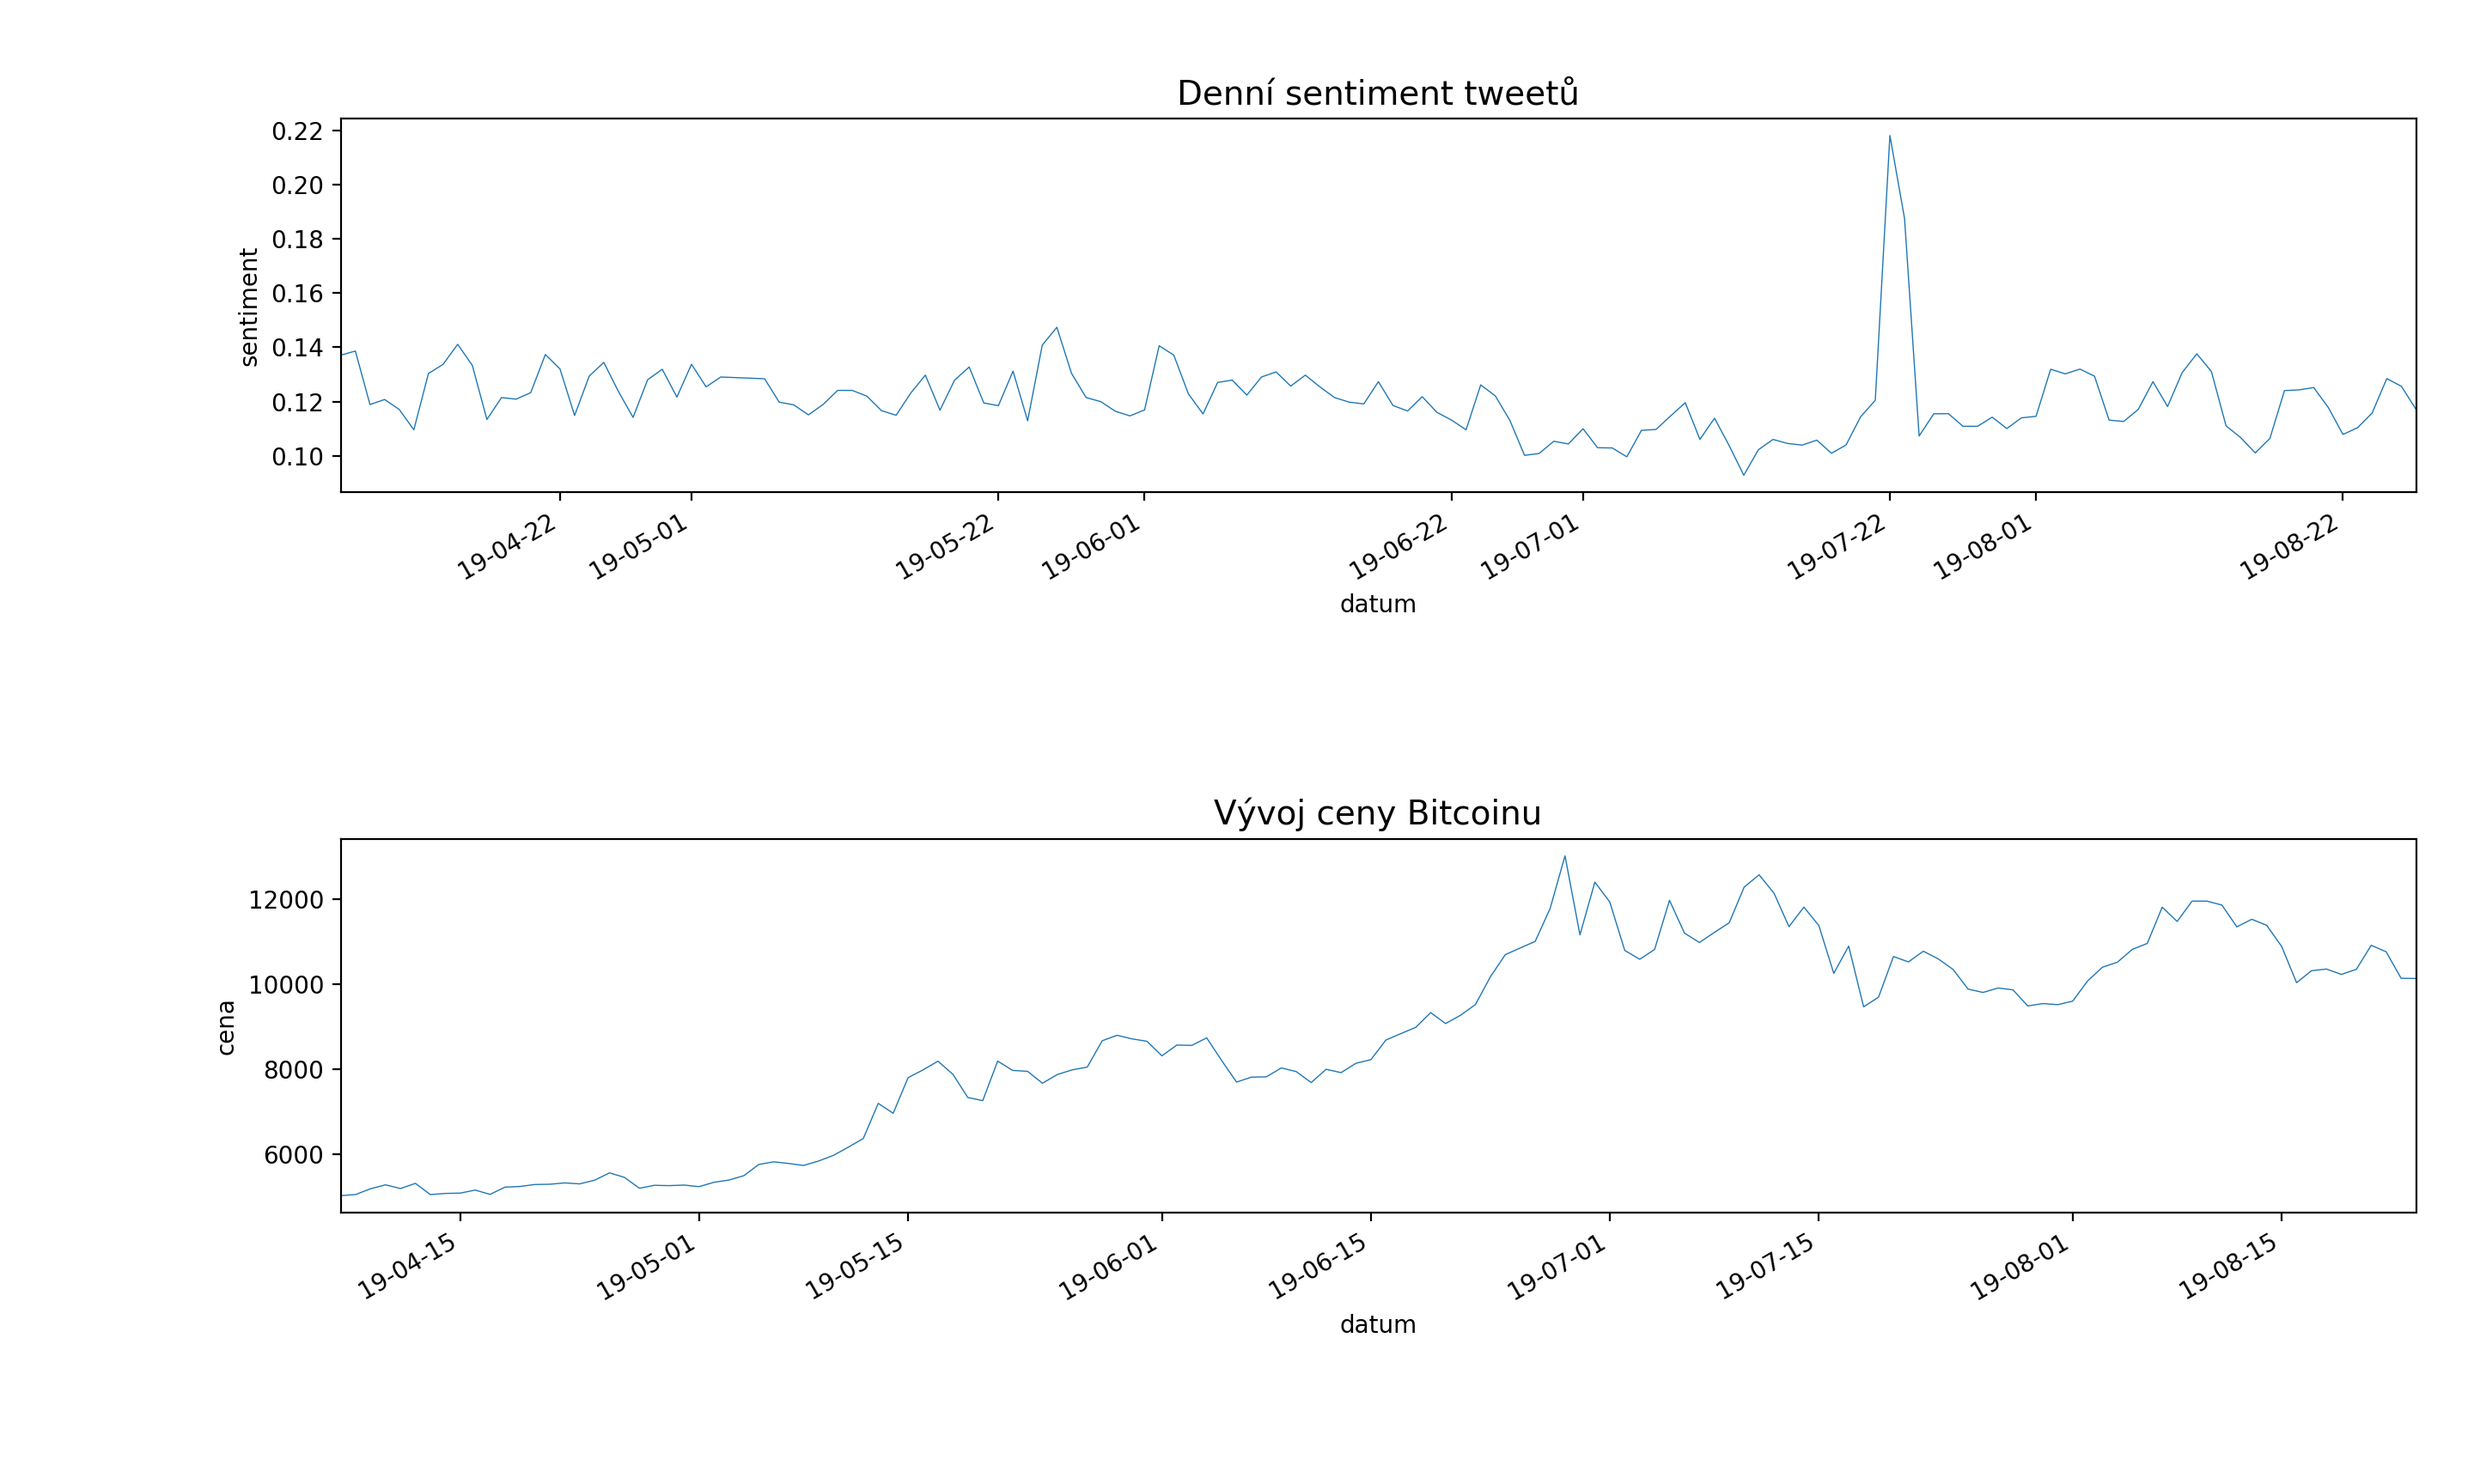
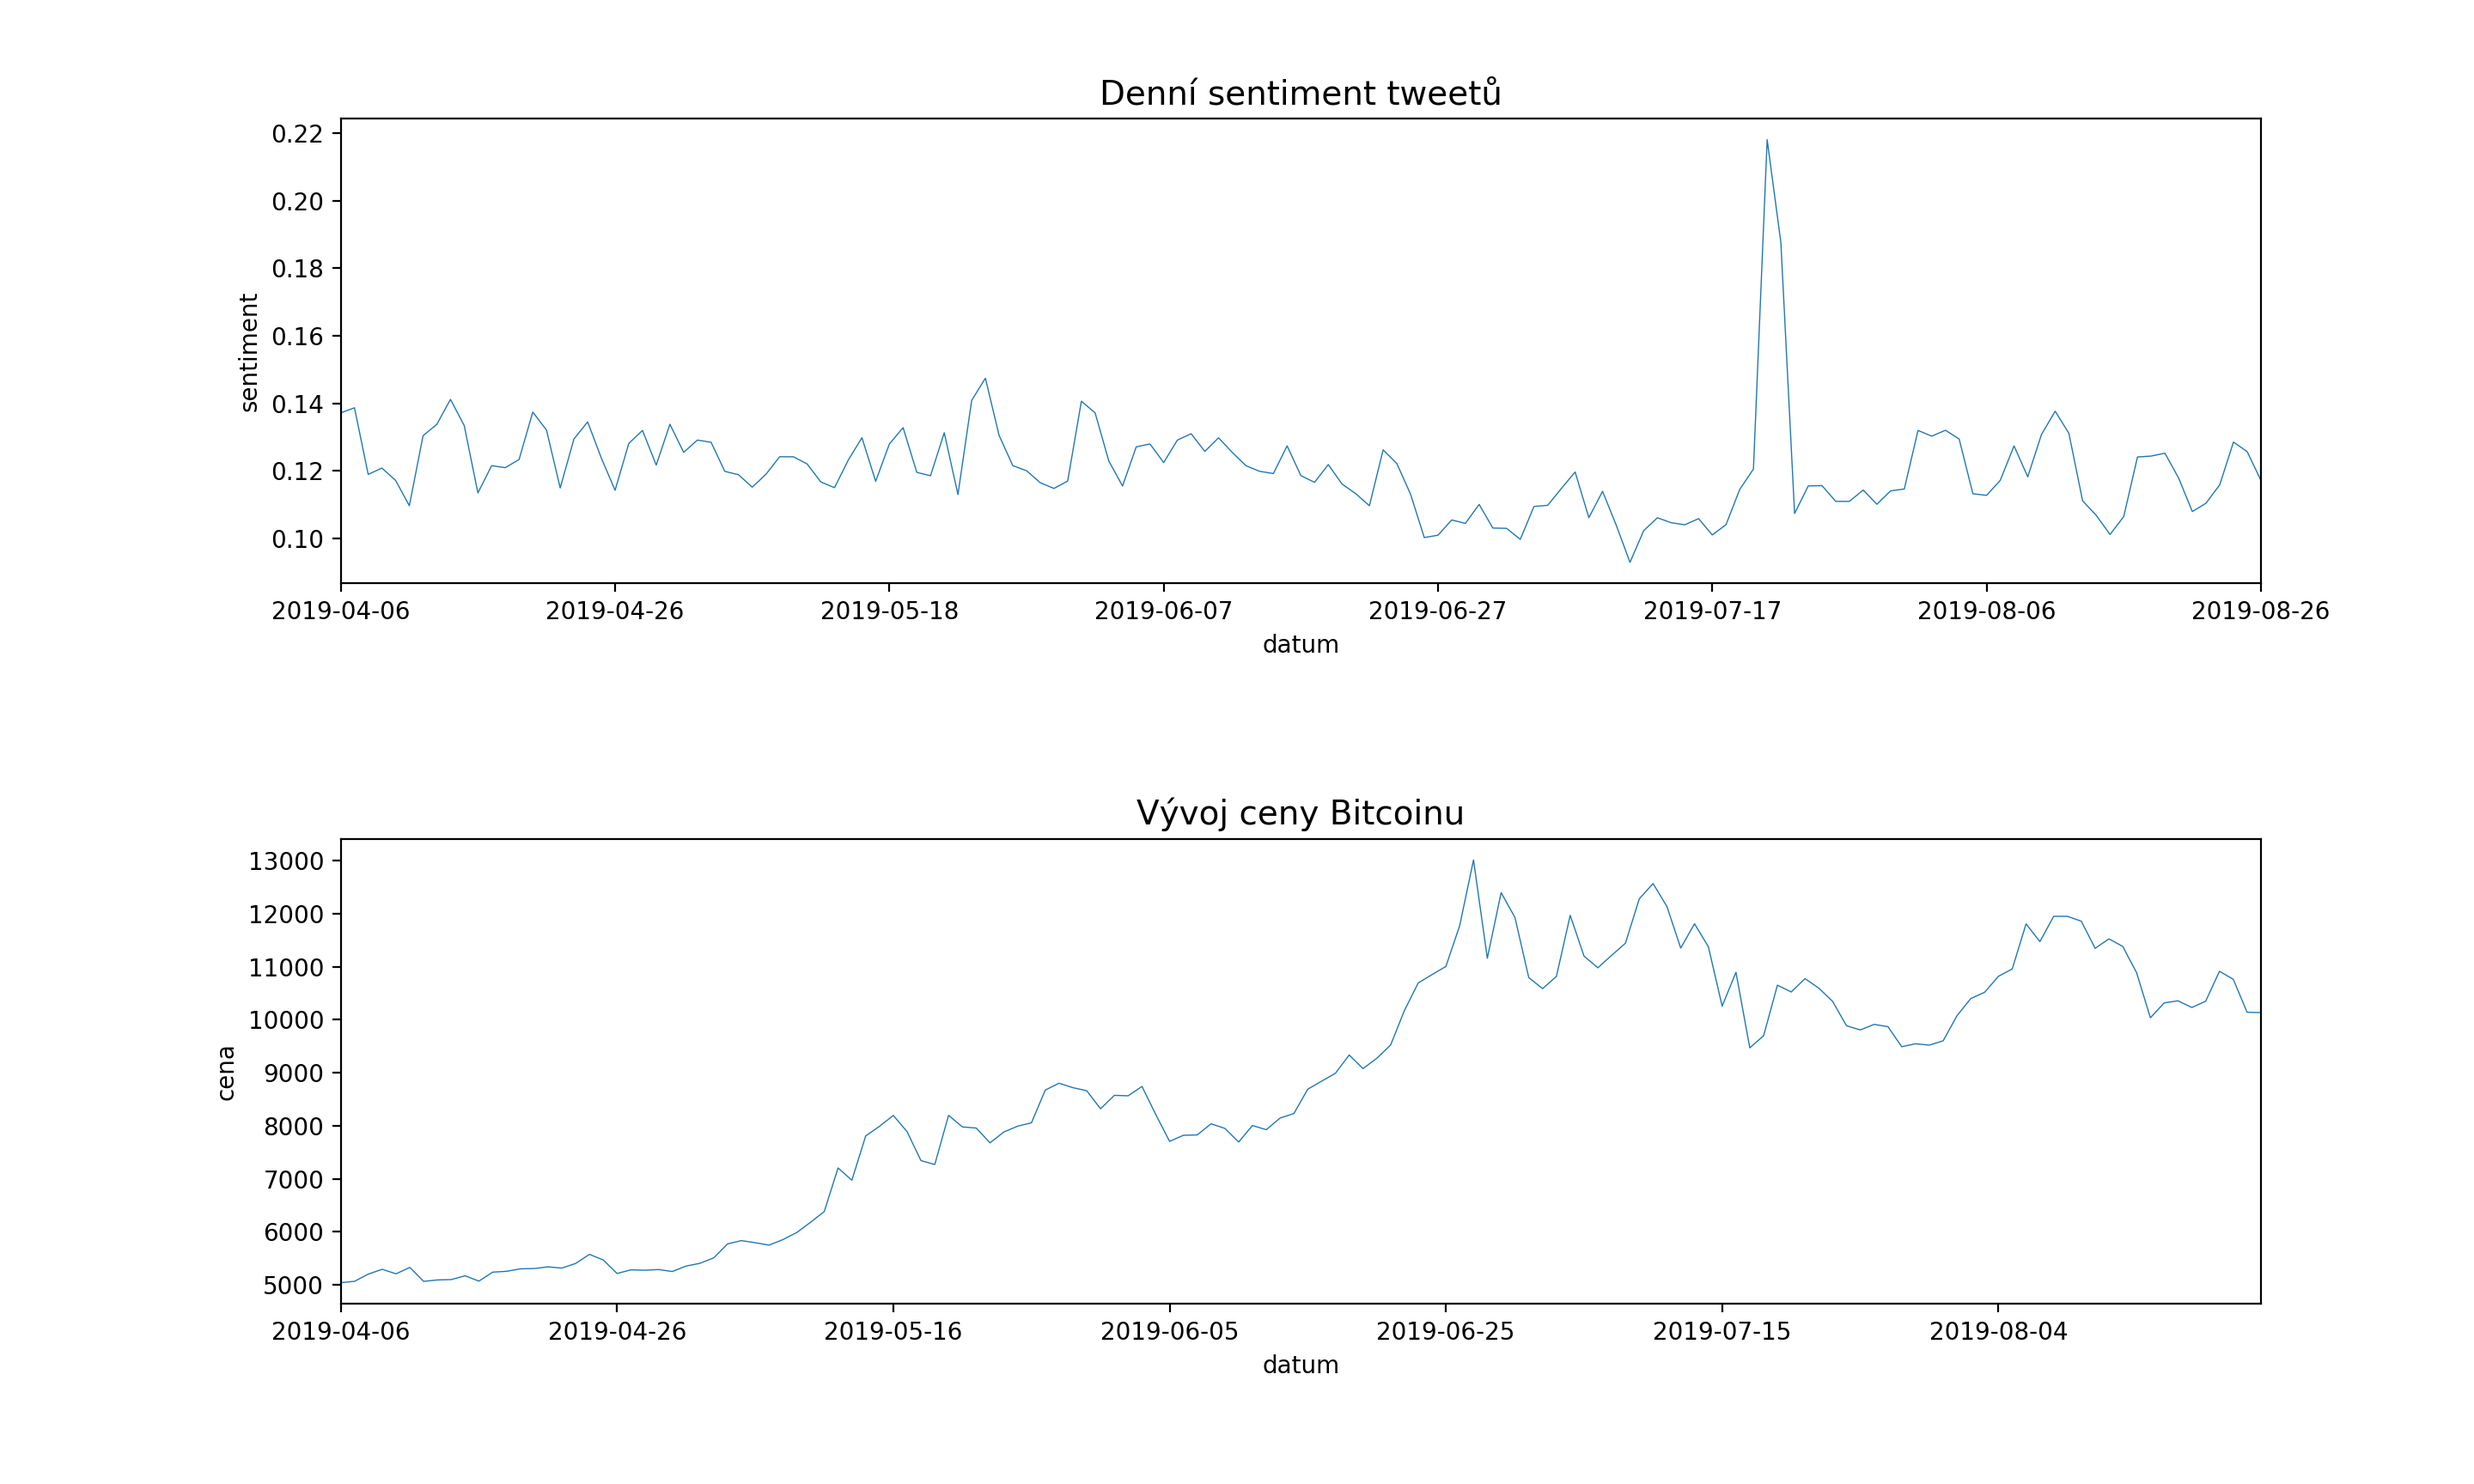
added corr

diff --git a/core/sentiment_visualizations.py b/core/sentiment_visualizations.py
@@ -1,10 +1,9 @@
 import json
 import matplotlib.pyplot as plt
-import matplotlib.dates as mdates
 import pandas as pd
 from configuration.config import root
 
-SENTIMENT_PATH = root / 'core' / 'output_sentiment.json'
+SENTIMENT_PATH = root / 'data' / 'sentiment_avg_daily.json'
 BITCOIN_PRICE_PATH = root / 'data' / 'bitcoin_price.json'
 
 
@@ -16,18 +15,26 @@ def read_json(json_path):
 
 def create_df(json_text, index_column):
     df = pd.DataFrame(json_text)
-    df[index_column] = pd.to_datetime(df[index_column])
+    df[index_column] = pd.to_datetime(df[index_column], format='%Y-%m-%d %H:%M:%S')
     df = df.set_index(index_column)
+    df.index = df.index.strftime('%Y-%m-%d')
+    df = df.sort_index()
     return df
 
 
 def get_lineplot(df, column_name, title, ylabel, xlabel):
-    plot_ts = df[column_name].plot(linewidth=0.5)
+    df[column_name].plot(linewidth=0.5)
     plt.title(title, fontsize=14)
     plt.ylabel(ylabel, fontsize=10)
     plt.xlabel(xlabel, fontsize=10)
-    xfmt = mdates.DateFormatter('%y-%m-%d')
-    plot_ts.xaxis.set_major_formatter(xfmt)
+
+
+def get_scatterplot(x, y, title, ylabel, xlabel):
+    plt.scatter(x, y)
+    plt.title(title, fontsize=14)
+    plt.ylabel(ylabel, fontsize=10)
+    plt.xlabel(xlabel, fontsize=10)
+    plt.show()
 
 
 if __name__ == '__main__':
@@ -41,11 +48,14 @@ if __name__ == '__main__':
     bitcoin_price_json = read_json(BITCOIN_PRICE_PATH)
     bitcoin_price = {'date': list(bitcoin_price_json.keys()), 'bitcoin_price': list(bitcoin_price_json.values())}
     bitcoin_price_df = create_df(bitcoin_price, 'date')
-    print(bitcoin_price_df)
 
     plt.subplot(212)
     get_lineplot(bitcoin_price_df, 'bitcoin_price', 'Vývoj ceny Bitcoinu', 'cena', 'datum')
 
     plt.tight_layout()
     plt.show()
+
+    merged_dfs = pd.merge(tweets_df, bitcoin_price_df, left_index=True, right_index=True)
+
+    get_scatterplot(merged_dfs['avg'], merged_dfs['bitcoin_price'], 'Correlation between BTC price and sentiment', 'BTC price', 'sentiment')
 
